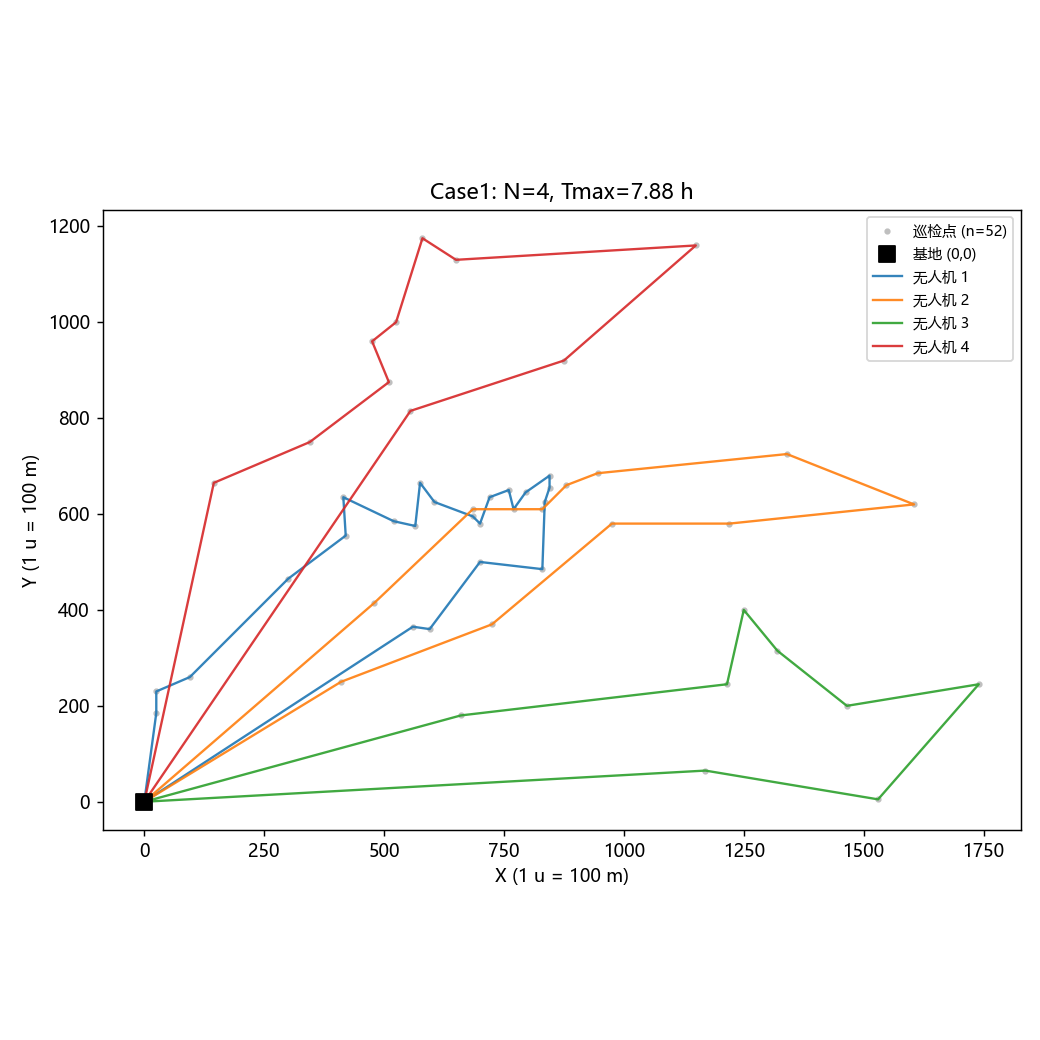
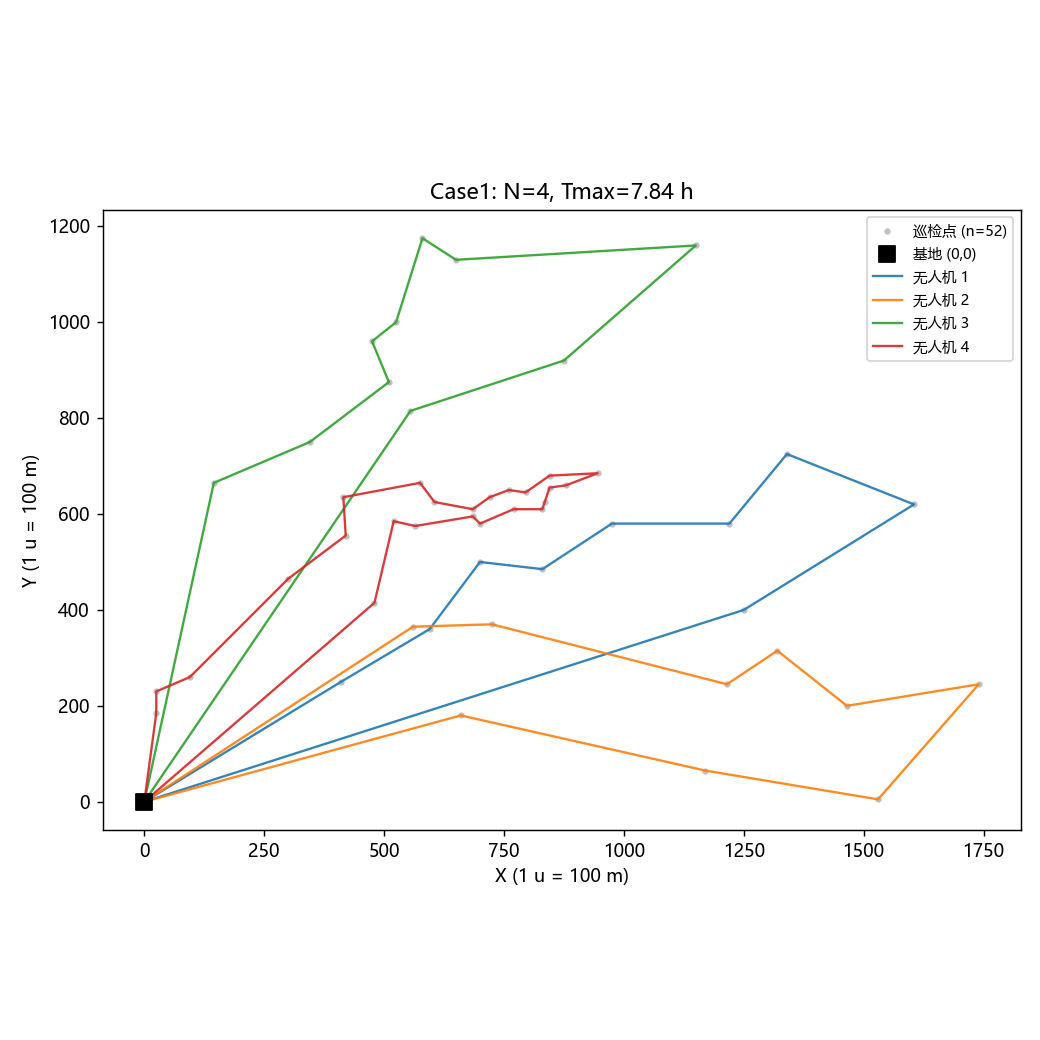
更新问题1 GA/蚁群对照路线结果与文档(Case2 GA 7.172->7.159h)

diff --git a/A 题/docs/08_问题1_第二层_簇编码GA.md b/A 题/docs/08_问题1_第二层_簇编码GA.md
@@ -62,28 +62,30 @@ ILS 300 迭代;种子 = ci×7000+s(ci=1..4);全部写入 JSON。单算例墙钟 
 结论:Nmin 结论全程不变(4/2/4/4,最终调度均经独立重算校验);
 修复后全部算例按新代码重跑,结果只增不减(如 Case4 第一层 8.393→8.015 h)。
 
-## 4. 结果(三层对比,最终值)
+## 4. 结果(三层对比,最终值,含对称性破缺 docs/11)
 
 | 算例 | Nmin | 第一层 GA Tmax | 第二层簇编码 GA Tmax(打磨后) | OR-Tools 参考 Tmax(docs/03) | 第二层改善 |
 |---|---|---|---|---|---|
 | Case1 | 4 | 8.015 h | **7.840 h** | 7.883 h | 0.175 h |
-| Case2 | 2 | 7.172 h | **7.046 h** | 7.178 h | 0.126 h |
+| Case2 | 2 | 7.159 h | **7.061 h** | 7.178 h | 0.098 h |
 | Case3 | 4 | 8.829 h | **8.343 h** | 8.373 h | 0.486 h |
-| Case4 | 4 | 8.001 h | **7.601 h** | 8.020 h | 0.400 h |
+| Case4 | 4 | 8.001 h | **7.555 h** | 8.020 h | 0.446 h |
 
-- **四个算例全部优于 OR-Tools 参考解**;多链 ILS 打磨又贡献 Case2/3/4 的 0.010/0.022/0.036 h;
-- ACO(见 docs/10)与簇编码 GA 水平相当(7.890/7.093/8.370/7.657 h),互为交叉验证;
+- **四个算例全部优于 OR-Tools 参考解**;ACO(见 docs/10)与簇编码 GA 水平相当
+  (7.935/7.098/8.420/7.656 h),互为交叉验证;
 - 表2 最终值(写入 `ga_p1_makespan.xlsx`):
 
 | 测试算例 | N | Tmax (h) | Tmin (h) |
 |---|---|---|---|
 | Case1 | 4 | 7.840 | 7.726 |
-| Case2 | 2 | 7.046 | 7.043 |
+| Case2 | 2 | 7.061 | 7.061 |
 | Case3 | 4 | 8.343 | 8.288 |
-| Case4 | 4 | 7.601 | 7.564 |
+| Case4 | 4 | 7.555 | 7.485 |
 
 独立复核(直读 JSON + 附件1 重算:任务覆盖恰一次、点级次数与等级一致、逐机时间、
 到达时刻递推、Tmax≤540、Tmax/Tmin 一致性):**4 算例全部 PASS**。
+注:对称性破缺(docs/11)前的一次运行曾得 7.046/7.601 h(Case2/4),两者均为
+同一解空间的有效启发式轨迹;最终表以当前代码(含对称性破缺)的可复现结果为准。
 
 ## 5. 诚实性声明
 

diff --git a/README_运行手册.md b/README_运行手册.md
@@ -27,6 +27,7 @@ TJMM/
     polish_ils.py          # 多链 ILS 打磨(从第二层/第一层解出发多链搜索,回写最优)
     p1_milp.py <Case> <N>  # 问题1 第一层: MTZ 精确模型(scipy/HiGHS),小规模验证 + 限时求解试点
     _test_ga.py            # GA 冒烟测试(分割DP vs 暴力DP 对照等)
+    _test_sym.py           # 对称性破缺专项测试(副本重排无损性、规范化多重集)
     _verify_ga.py          # GA 结果独立复核(直读 JSON+附件1 重算,支持文件名模式参数)
     _fuzz_ls.py            # 局部搜索算子时间一致性 fuzz 回归(曾定位 2-opt* off-by-one)
     _fuzz_ils.py           # ejection/deep_ls/ils 任务多重集 + 时间一致性 fuzz 回归
@@ -86,6 +87,7 @@ python src\sensitivity.py
 3. 模块可安全 import(主流程均在 `main()` 中,`__main__` 守卫)。
 4. 问题3 的禁飞区边界约定:开圆(相切/压线允许);Case4 Z8 零长度窗口按瞬时生效,另有敏感性对照。
 5. 局部搜索曾有两个 off-by-one 缺陷,均已修复并由 fuzz 回归:①2-opt\* 的前缀和与切片内部距离差一条边界边(`_fuzz_ls.py` 定位);②Or-opt(机内/跨机块搬迁)的块内距离应为 pref[p+b]−pref[p+1](`_fuzz_ils.py` 定位,配合任务多重集检查)。两层与 ACO 结果均已按修复后代码重跑并经独立复核。
+6. 对称性破缺:等级展开产生的同点副本按"出现顺序"规范重编号(排列编码/簇编码在评估时规范化、ACO 构造时按点选代表),严格无损,冗余度(∏ k_i!)压缩为 1;见 `_test_sym.py` 与 docs/11。
 
 ## 诚实性声明(不回避)
 
